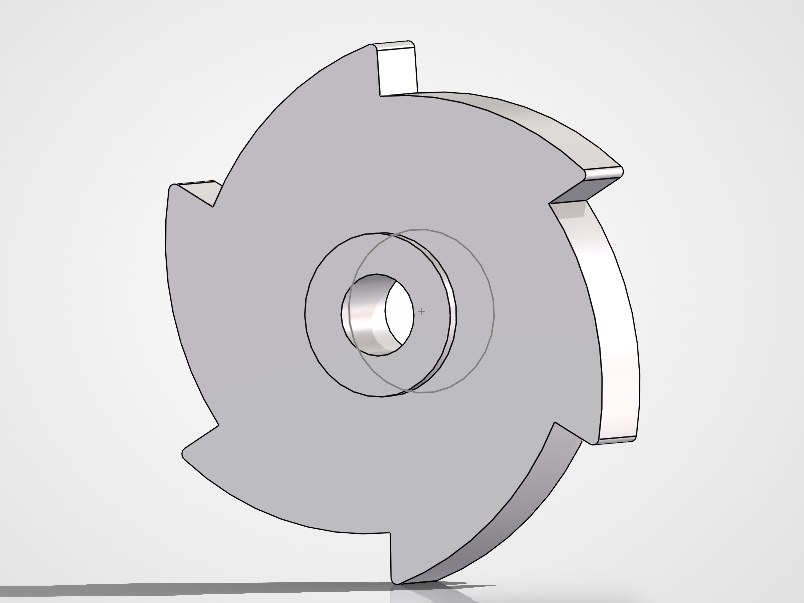
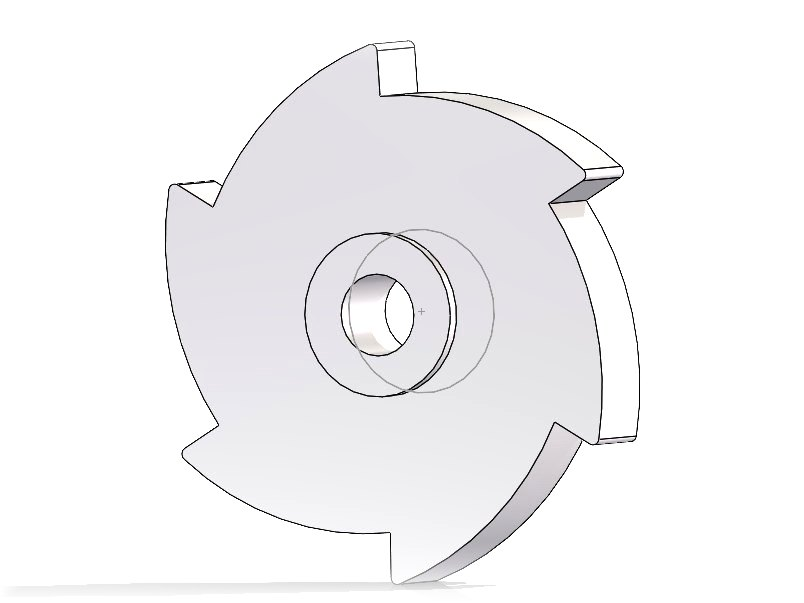
Design polish: project overview, key-number stats, consistent image frames
Claude-Session: https://claude.ai/code/session_01MA7mDoS8TBBmJWrutiErnh

diff --git a/index.html b/index.html
@@ -17,6 +17,7 @@
     --grid: #E8EDF2;
     --steel: #2F5D8A;
     --steel-soft: #EAF0F6;
+    --tray: #F1F4F7;
   }
   * { box-sizing: border-box; }
   [hidden] { display: none !important; }
@@ -119,7 +120,7 @@
     display: flex; align-items: center; justify-content: center;
   }
   .figure img { width: 100%; height: 100%; object-fit: cover; display: block; }
-  .figure.drawing img { object-fit: contain; padding: 8px; background: #fff; }
+
   .figure a { display: block; width: 100%; height: 100%; }
   .zoom-hint { margin: 10px 0 0; font-size: 14px; }
   .gallery .figure { background: #fff; }
@@ -165,6 +166,47 @@
 
   footer { border-top: 1px solid var(--line); padding: 24px 0; color: var(--muted); font-size: 14px; }
 
+
+  /* Polish pass */
+  .figure { border: 1px solid var(--line); background: #fff; }
+  .figure img, .gallery .figure img { object-fit: contain; padding: 18px; mix-blend-mode: multiply; }
+  .figure a { position: relative; }
+  .expand { position: absolute; right: 10px; bottom: 10px; width: 32px; height: 32px; display: grid; place-items: center;
+            background: var(--paper); border: 1px solid var(--line); color: var(--ink); }
+  .figure a:hover .expand, .figure a:focus-visible .expand { border-color: var(--ink); }
+  .views { border-color: var(--line); background: var(--line); }
+  .views button { color: var(--muted); }
+  .views button:hover { color: var(--ink); }
+  .views button[aria-pressed="true"] { background: var(--steel); color: #fff; }
+  .project { padding: 56px 0; gap: 48px; }
+  .project h4 { font-size: 25px; line-height: 1.25; margin: 0 0 12px; }
+  .project p { color: var(--muted); }
+  .chips li { background: var(--tray); color: var(--ink); font-weight: 500; border: 1px solid var(--line); }
+
+  .stats { display: grid; grid-template-columns: repeat(3, 1fr); margin: 4px 0 20px; border-top: 1px solid var(--line); border-bottom: 1px solid var(--line); }
+  .stats div { padding: 12px 12px 12px 0; }
+  .stats div + div { padding-left: 14px; border-left: 1px solid var(--line); }
+  .stats dt { font-size: 13px; color: var(--muted); line-height: 1.35; order: 2; }
+  .stats dd { margin: 0 0 2px; font-size: 24px; font-weight: 700; font-variation-settings: "wdth" 110; font-variant-numeric: tabular-nums; color: var(--ink); }
+  .stats div { display: flex; flex-direction: column; }
+  .stats dd { order: 1; }
+
+  .overview { display: grid; grid-template-columns: repeat(5, 1fr); gap: 16px; margin: 0 0 72px; padding: 0; list-style: none; }
+  .overview a { display: block; text-decoration: none; color: var(--ink); }
+  .overview .thumb { aspect-ratio: 4 / 3; border: 1px solid var(--line); background: #fff; display: block; }
+  .overview .thumb img { width: 100%; height: 100%; object-fit: contain; padding: 10px; mix-blend-mode: multiply; display: block; }
+  .overview a:hover .thumb, .overview a:focus-visible .thumb { border-color: var(--ink); }
+  .overview b { display: block; font-size: 15px; font-weight: 600; margin-top: 8px; line-height: 1.3; }
+  .overview span { display: block; font-size: 13px; color: var(--muted); }
+  .project { scroll-margin-top: 72px; }
+
+  .art-grid a { border-color: var(--line); background: #fff; }
+  .art-grid img { mix-blend-mode: multiply; }
+  .art-grid a:hover { border-color: var(--ink); }
+
+  @media (max-width: 900px) { .overview { grid-template-columns: repeat(3, 1fr); } }
+  @media (max-width: 520px) { .overview { grid-template-columns: repeat(2, 1fr); } .stats dd { font-size: 20px; } }
+
   @media (max-width: 760px) {
     .views { display: grid; grid-template-columns: 1fr 1fr; width: 100%; }
     .views button:last-child:nth-child(odd) { grid-column: span 2; }
@@ -206,10 +248,8 @@
       </div>
     </div>
     <table class="titleblock" aria-label="Summary">
-      <tr><th scope="row">Name</th><td>Isabelle Egan</td></tr>
       <tr><th scope="row">School</th><td>Michigan State University</td></tr>
       <tr><th scope="row">Class of</th><td>2028</td></tr>
-      <tr><th scope="row">Discipline</th><td>Mechanical Engineering</td></tr>
       <tr><th scope="row">Seeking</th><td>Summer 2027 internship</td></tr>
       <tr><th scope="row">CAD</th><td>Siemens NX, SolidWorks</td></tr>
       <tr><th scope="row">Analysis</th><td>ANSYS Workbench</td></tr>
@@ -219,13 +259,21 @@
   <section id="projects">
     <h2>Projects</h2>
     <p class="sub">Selected hand drafting and CAD work.</p>
+    <ul class="overview">
+      <li><a href="#p-bearing"><span class="thumb"><img src="images/bearing-model.jpg" alt="" loading="lazy"></span><b>Ball bearing</b><span>Class project</span></a></li>
+      <li><a href="#p-engine"><span class="thumb"><img src="images/engine-model.jpg" alt="" loading="lazy"></span><b>Three-cylinder engine</b><span>Class project</span></a></li>
+      <li><a href="#p-gearbox"><span class="thumb"><img src="images/gearbox-model.jpg" alt="" loading="lazy"></span><b>Gearbox</b><span>Class project</span></a></li>
+      <li><a href="#p-table"><span class="thumb"><img src="images/solar-table-model.jpg" alt="" loading="lazy"></span><b>Table frame and FEA</b><span>Solar car team</span></a></li>
+      <li><a href="#p-ratchet"><span class="thumb"><img src="images/solar-wheel-model.jpg" alt="" loading="lazy"></span><b>Ratchet wheel</b><span>Solar car team</span></a></li>
+    </ul>
+
 
     <div class="group" id="class">
       <div class="group-head">
         <h3>Class projects</h3>
         <p>Design work from mechanical engineering courses at Michigan State.</p>
       </div>
-      <article class="project">
+      <article class="project" id="p-bearing">
         <div class="gallery">
           <div class="figure" data-img="images/bearing-model.jpg" data-label="Deep groove ball bearing 3D model"></div>
           <div class="views" role="group" aria-label="Choose view">
@@ -235,14 +283,14 @@
           </div>
         </div>
         <div>
-          <div class="detail-tag" aria-hidden="true">A</div>
           <h4>Ball bearing assembly and draft</h4>
           <p>A complete ball bearing that I modeled and assembled from scratch in Siemens NX. I designed the inner ring, outer ring and ball as separate parts, then used fix, concentric, align and distance constraints and a circular pattern to place 16 balls evenly around the raceway. I also produced a full-size A3 draft with a sectioned view (B-B) that shows the ball seats, the 72.5 mm outer diameter, the 12.5 mm width and the chamfers on both faces.</p>
+          <dl class="stats"><div><dt>balls in a circular pattern</dt><dd>16</dd></div><div><dt>outer diameter</dt><dd>72.5 mm</dd></div><div><dt>width</dt><dd>12.5 mm</dd></div></dl>
           <ul class="chips"><li>Siemens NX</li><li>Assembly constraints</li><li>Section views</li><li>Drafting</li></ul>
         </div>
       </article>
 
-      <article class="project">
+      <article class="project" id="p-engine">
         <div class="gallery">
           <div class="figure" data-img="images/engine-model.jpg" data-label="Inline three-cylinder engine assembly 3D model"></div>
           <div class="views" role="group" aria-label="Choose view">
@@ -253,13 +301,12 @@
           </div>
         </div>
         <div>
-          <div class="detail-tag" aria-hidden="true">B</div>
           <h4>Inline three-cylinder engine assembly and draft</h4>
           <p>An inline three-cylinder engine assembly modeled in Siemens NX. I built the engine block, crankshaft, connecting rods, pistons and piston pins as separate parts, then joined them with touch, align and center constraints so the crank, rods and pistons line up as a working mechanism. I started with a hand-drafted multiview sketch, then produced a full NX draft with top and front views, a section (C-C) through a cylinder showing the piston and connecting rod, an isometric view and key dimensions in inches.</p>
           <ul class="chips"><li>Siemens NX</li><li>Assembly constraints</li><li>Section views</li><li>Hand drafting</li></ul>
         </div>
       </article>
-      <article class="project">
+      <article class="project" id="p-gearbox">
         <div class="gallery">
           <div class="figure" data-img="images/gearbox-model.jpg" data-label="Gearbox assembly 3D model"></div>
           <div class="views" role="group" aria-label="Choose view">
@@ -269,7 +316,6 @@
           </div>
         </div>
         <div>
-          <div class="detail-tag" aria-hidden="true">C</div>
           <h4>Gearbox assembly and draft</h4>
           <p>A gearbox assembly modeled in Siemens NX. I built the housing, base, end covers and inspection cover, along with the internal gears, shafts and bearings, as separate parts and joined them with assembly constraints. From the model, I produced a matching draft with top, front and side views, an isometric view and key dimensions.</p>
           <ul class="chips"><li>Siemens NX</li><li>Assembly constraints</li><li>Drafting</li></ul>
@@ -279,7 +325,6 @@
       <article class="project" hidden>
         <div class="figure" data-img="images/class-3.jpg" data-label="Class project 3"></div>
         <div>
-          <div class="detail-tag" aria-hidden="true">F</div>
           <h4>Class project 3</h4>
           <p>Description coming soon.</p>
           <ul class="chips"><li>3D CAD</li></ul>
@@ -291,7 +336,7 @@
         <h3>Solar car team</h3>
         <p>Parts and structures I designed and analyzed for the solar car team.</p>
       </div>
-      <article class="project">
+      <article class="project" id="p-table">
         <div class="gallery">
           <div class="figure" data-img="images/solar-table-model.jpg" data-label="Chromoly steel table frame 3D model"></div>
           <div class="views" role="group" aria-label="Choose view">
@@ -301,14 +346,14 @@
           </div>
         </div>
         <div>
-          <div class="detail-tag" aria-hidden="true">D</div>
           <h4>Chromoly steel table frame with ANSYS analysis</h4>
           <p>A welded chromoly steel table frame I designed for the solar car team, with a goal of keeping it under 150 lb. I modeled the tube frame in SolidWorks using 3D sketching, weldment structural members and extend/trim tools to join the cross-bracing. I then analyzed it in ANSYS Workbench under a 2,500 N load in the X and Z directions and a 6,000 N downward load in Y. The final design weighs 120 lb, 30 lb under the limit, with a minimum factor of safety of 2.23.</p>
+          <dl class="stats"><div><dt>frame weight, under a 150 lb limit</dt><dd>120 lb</dd></div><div><dt>minimum factor of safety</dt><dd>2.23</dd></div><div><dt>vertical load analyzed</dt><dd>6,000 N</dd></div></dl>
           <ul class="chips"><li>SolidWorks weldments</li><li>3D sketching</li><li>ANSYS Workbench</li><li>FEA</li><li>Chromoly steel</li></ul>
         </div>
       </article>
 
-      <article class="project">
+      <article class="project" id="p-ratchet">
         <div class="gallery">
           <div class="figure" data-img="images/solar-wheel-model.jpg" data-label="Ratchet wheel 3D model"></div>
           <div class="views" role="group" aria-label="Choose view">
@@ -317,7 +362,6 @@
           </div>
         </div>
         <div>
-          <div class="detail-tag" aria-hidden="true">E</div>
           <h4>Ratchet wheel for a pedal-operated tire lift</h4>
           <p>A ratchet wheel I designed and modeled from scratch in SolidWorks for the solar car team's tire lift. The lift slides around a single tire and uses a foot pedal ratchet system to raise the wheel off the ground, with no separate floor jack needed. The five angled teeth let the wheel turn in the lifting direction while a pawl locks it in the other, holding the car up between pedal strokes. The stepped center bore mounts it on a shaft. I built the part from sketch-based extrudes and cuts, then added fillets to finish the edges.</p>
           <ul class="chips"><li>SolidWorks</li><li>Part modeling</li><li>Original design</li></ul>
@@ -327,7 +371,6 @@
       <article class="project" hidden>
         <div class="figure" data-img="images/solar-2.jpg" data-label="Solar team project 2"></div>
         <div>
-          <div class="detail-tag" aria-hidden="true">B</div>
           <h4>Solar team project 2</h4>
           <p>Description coming soon.</p>
           <ul class="chips"><li>3D CAD</li></ul>
@@ -337,7 +380,6 @@
       <article class="project" hidden>
         <div class="figure" data-img="images/solar-3.jpg" data-label="Solar team project 3"></div>
         <div>
-          <div class="detail-tag" aria-hidden="true">C</div>
           <h4>Solar team project 3</h4>
           <p>Description coming soon.</p>
           <ul class="chips"><li>3D CAD</li></ul>
@@ -413,10 +455,10 @@
       a.setAttribute('aria-label', 'Open full-size ' + label);
       a.appendChild(img);
       fig.innerHTML = ''; fig.appendChild(a);
-      const hint = document.createElement('p');
-      hint.className = 'zoom-hint';
-      hint.innerHTML = '<a href="' + img.src + '" target="_blank" rel="noopener">View full size</a>';
-      fig.closest('.project').querySelector('.chips').after(hint); fig._hint = hint;
+      const ic = document.createElement('span');
+      ic.className = 'expand'; ic.setAttribute('aria-hidden', 'true');
+      ic.innerHTML = '<svg width="16" height="16" viewBox="0 0 16 16" fill="none" stroke="currentColor" stroke-width="1.6"><path d="M9.5 2.5h4v4M6.5 13.5h-4v-4M13.5 2.5 9 7M2.5 13.5 7 9"/></svg>';
+      a.appendChild(ic);
     };
     img.onerror = () => {
       fig.innerHTML = '<div class="placeholder"><svg width="64" height="64" viewBox="0 0 64 64" fill="none" stroke="#5B6673" stroke-width="1.5" aria-hidden="true"><circle cx="32" cy="32" r="20"/><circle cx="32" cy="32" r="6"/><path d="M32 4v12M32 48v12M4 32h12M48 32h12"/></svg>' + label + ' render coming soon</div>';
@@ -433,7 +475,6 @@
         const a = fig.querySelector('a'), img = fig.querySelector('img');
         if (!img) return;
         img.src = btn.dataset.src; img.alt = btn.dataset.alt; a.href = btn.dataset.src;
-        if (fig._hint) fig._hint.querySelector('a').href = btn.dataset.src;
       });
     });
   });
